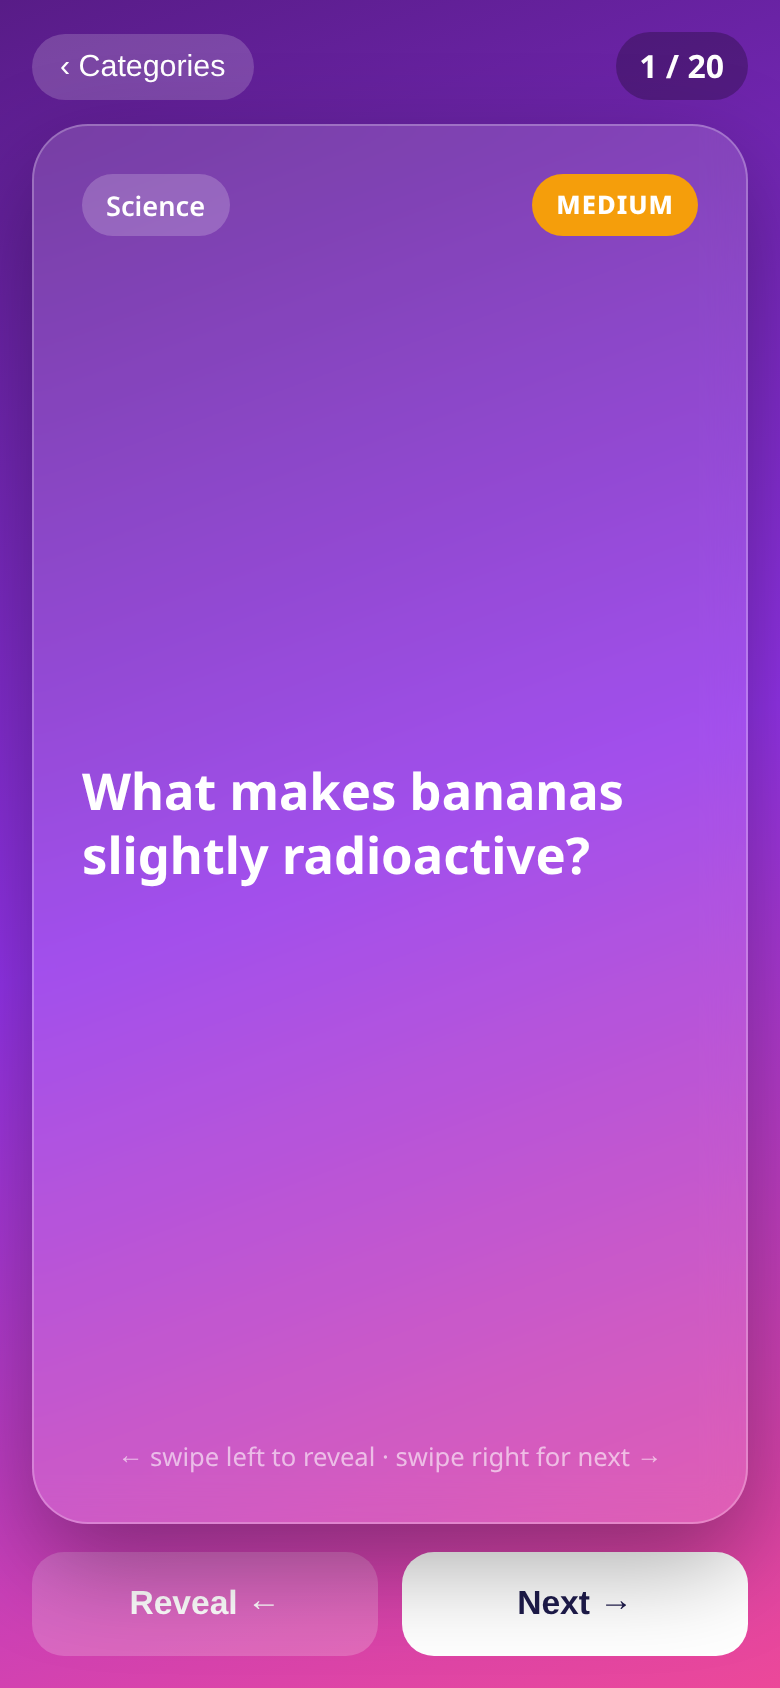
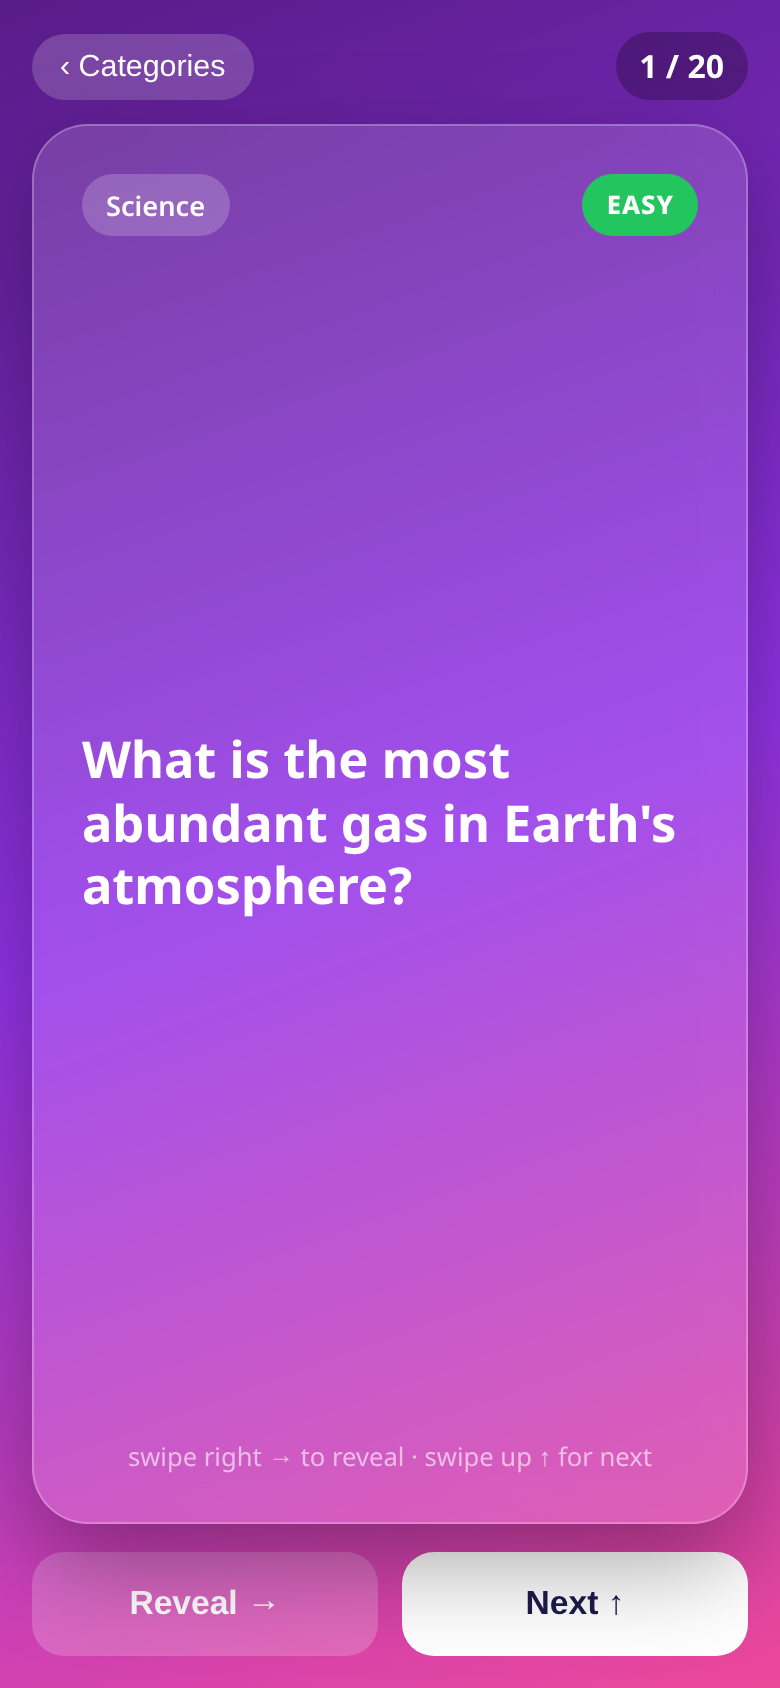
Gestures: swipe right reveals/flips back, swipe up for next; disable left swipe; touch-action none

diff --git a/app.js b/app.js
@@ -31,16 +31,21 @@ function render(){
   $("progress").textContent=`${i+1} / ${deck.length}`;
 }
 function reveal(){if(i<deck.length){flipped=!flipped;$("card").classList.toggle("flipped",flipped)}}
-function next(){if(i>=deck.length)return;const c=$("card");c.style.transform="translateX(120%) rotate(12deg)";c.style.opacity=0;
-  setTimeout(()=>{i++;c.classList.add("drag");c.style.transform="translateX(-30%)";render();
-    requestAnimationFrame(()=>{c.classList.remove("drag");c.style.transform="";c.style.opacity=1})},250)}
+function next(){if(i>=deck.length)return;const c=$("card");c.style.transform="translateY(-120%) rotate(-4deg)";c.style.opacity=0;
+  setTimeout(()=>{i++;c.classList.add("drag");c.style.transform="translateY(30%)";render();
+    requestAnimationFrame(()=>requestAnimationFrame(()=>{c.classList.remove("drag");c.style.transform="";c.style.opacity=1}))},250)}
 $("reveal").onclick=reveal;$("next").onclick=next;$("back").onclick=()=>{show("home");renderCats()};
 document.addEventListener("keydown",e=>{if(!$("play").classList.contains("active"))return;
-  if(e.key==="ArrowLeft")reveal();else if(e.key==="ArrowRight")next();else if(e.key==="Escape")$("back").click()});
-// swipe
-let sx=0,sy=0,dx=0,down=false;const card=$("card");
-card.addEventListener("pointerdown",e=>{down=true;sx=e.clientX;sy=e.clientY;dx=0;card.classList.add("drag")});
-card.addEventListener("pointermove",e=>{if(!down)return;dx=e.clientX-sx;if(Math.abs(dx)>Math.abs(e.clientY-sy))card.style.transform=`translateX(${dx*.4}px) rotate(${dx*.03}deg)`});
+  if(e.key==="ArrowRight"){e.preventDefault();reveal()}
+  else if(["ArrowUp","ArrowDown"," "].includes(e.key)){e.preventDefault();next()}
+  else if(e.key==="Escape")$("back").click()});
+// swipe: right = reveal/flip back, up = next, left = nothing
+let sx=0,sy=0,dx=0,dy=0,down=false;const card=$("card");
+card.addEventListener("pointerdown",e=>{down=true;sx=e.clientX;sy=e.clientY;dx=dy=0;card.classList.add("drag");try{card.setPointerCapture(e.pointerId)}catch(_){}});
+card.addEventListener("pointermove",e=>{if(!down)return;dx=e.clientX-sx;dy=e.clientY-sy;
+  if(dx>0&&dx>Math.abs(dy))card.style.transform=`translateX(${dx*.4}px) rotate(${dx*.03}deg)`;
+  else if(dy<0&&-dy>Math.abs(dx))card.style.transform=`translateY(${dy*.5}px)`;
+  else card.style.transform=""});
 const end=()=>{if(!down)return;down=false;card.classList.remove("drag");card.style.transform="";
-  if(dx<-60)reveal();else if(dx>60)next();dx=0};
-card.addEventListener("pointerup",end);card.addEventListener("pointercancel",end);card.addEventListener("pointerleave",end);
+  if(dx>60&&dx>Math.abs(dy))reveal();else if(dy<-60&&-dy>Math.abs(dx))next();dx=dy=0};
+card.addEventListener("pointerup",end);card.addEventListener("pointercancel",end);

diff --git a/style.css b/style.css
@@ -1,5 +1,5 @@
 *{box-sizing:border-box;margin:0;padding:0}
-html,body{height:100%;overflow:hidden;font-family:system-ui,-apple-system,"Segoe UI",Roboto,sans-serif;color:#fff;background:#0f0c29}
+html,body{height:100%;overflow:hidden;overscroll-behavior:none;font-family:system-ui,-apple-system,"Segoe UI",Roboto,sans-serif;color:#fff;background:#0f0c29}
 body{background:var(--g,linear-gradient(160deg,#0f0c29,#302b63,#24243e));transition:background .5s}
 .screen{display:none;height:100dvh;flex-direction:column;padding:max(16px,env(safe-area-inset-top)) 16px max(16px,env(safe-area-inset-bottom))}
 .screen.active{display:flex}
@@ -15,7 +15,7 @@ header p{opacity:.75;margin-top:6px}
 .iconbtn{background:rgba(255,255,255,.18);border:0;color:#fff;padding:8px 14px;border-radius:999px;font-size:.95rem;cursor:pointer}
 .progress{font-weight:700;background:rgba(0,0,0,.25);padding:6px 12px;border-radius:999px}
 .stage{flex:1;perspective:1200px;display:flex;min-height:0}
-.card{flex:1;position:relative;touch-action:pan-y;user-select:none;transition:transform .3s,opacity .3s}
+.card{flex:1;position:relative;touch-action:none;user-select:none;transition:transform .3s,opacity .3s}
 .card.drag{transition:none}
 .inner{position:absolute;inset:0;transform-style:preserve-3d;transition:transform .6s cubic-bezier(.4,.2,.2,1)}
 .card.flipped .inner{transform:rotateY(180deg)}

diff --git a/index.html b/index.html
@@ -13,10 +13,10 @@
   </div>
   <div class="stage"><div id="doneBox" class="face" style="display:none;position:relative;flex:1"></div><div id="card" class="card"><div class="inner">
     <div class="face front"><div class="meta"><span id="cat" class="chip"></span><span id="diff" class="badge"></span></div>
-      <div id="q" class="q"></div><div class="hint">← swipe left to reveal · swipe right for next →</div></div>
+      <div id="q" class="q"></div><div class="hint">swipe right → to reveal · swipe up ↑ for next</div></div>
     <div class="face back"><div class="meta"><span class="chip">Answer</span><span id="diff2" class="badge"></span></div>
-      <div id="a" class="a"></div><div id="ex" class="ex"></div><div class="hint">swipe right for next →</div></div>
+      <div id="a" class="a"></div><div id="ex" class="ex"></div><div class="hint">swipe right → to flip back · swipe up ↑ for next</div></div>
   </div></div></div>
-  <div class="controls"><button id="reveal" class="btn">Reveal ←</button><button id="next" class="btn primary">Next →</button></div>
+  <div class="controls"><button id="reveal" class="btn">Reveal →</button><button id="next" class="btn primary">Next ↑</button></div>
 </section>
 <script src="app.js"></script></body></html>
